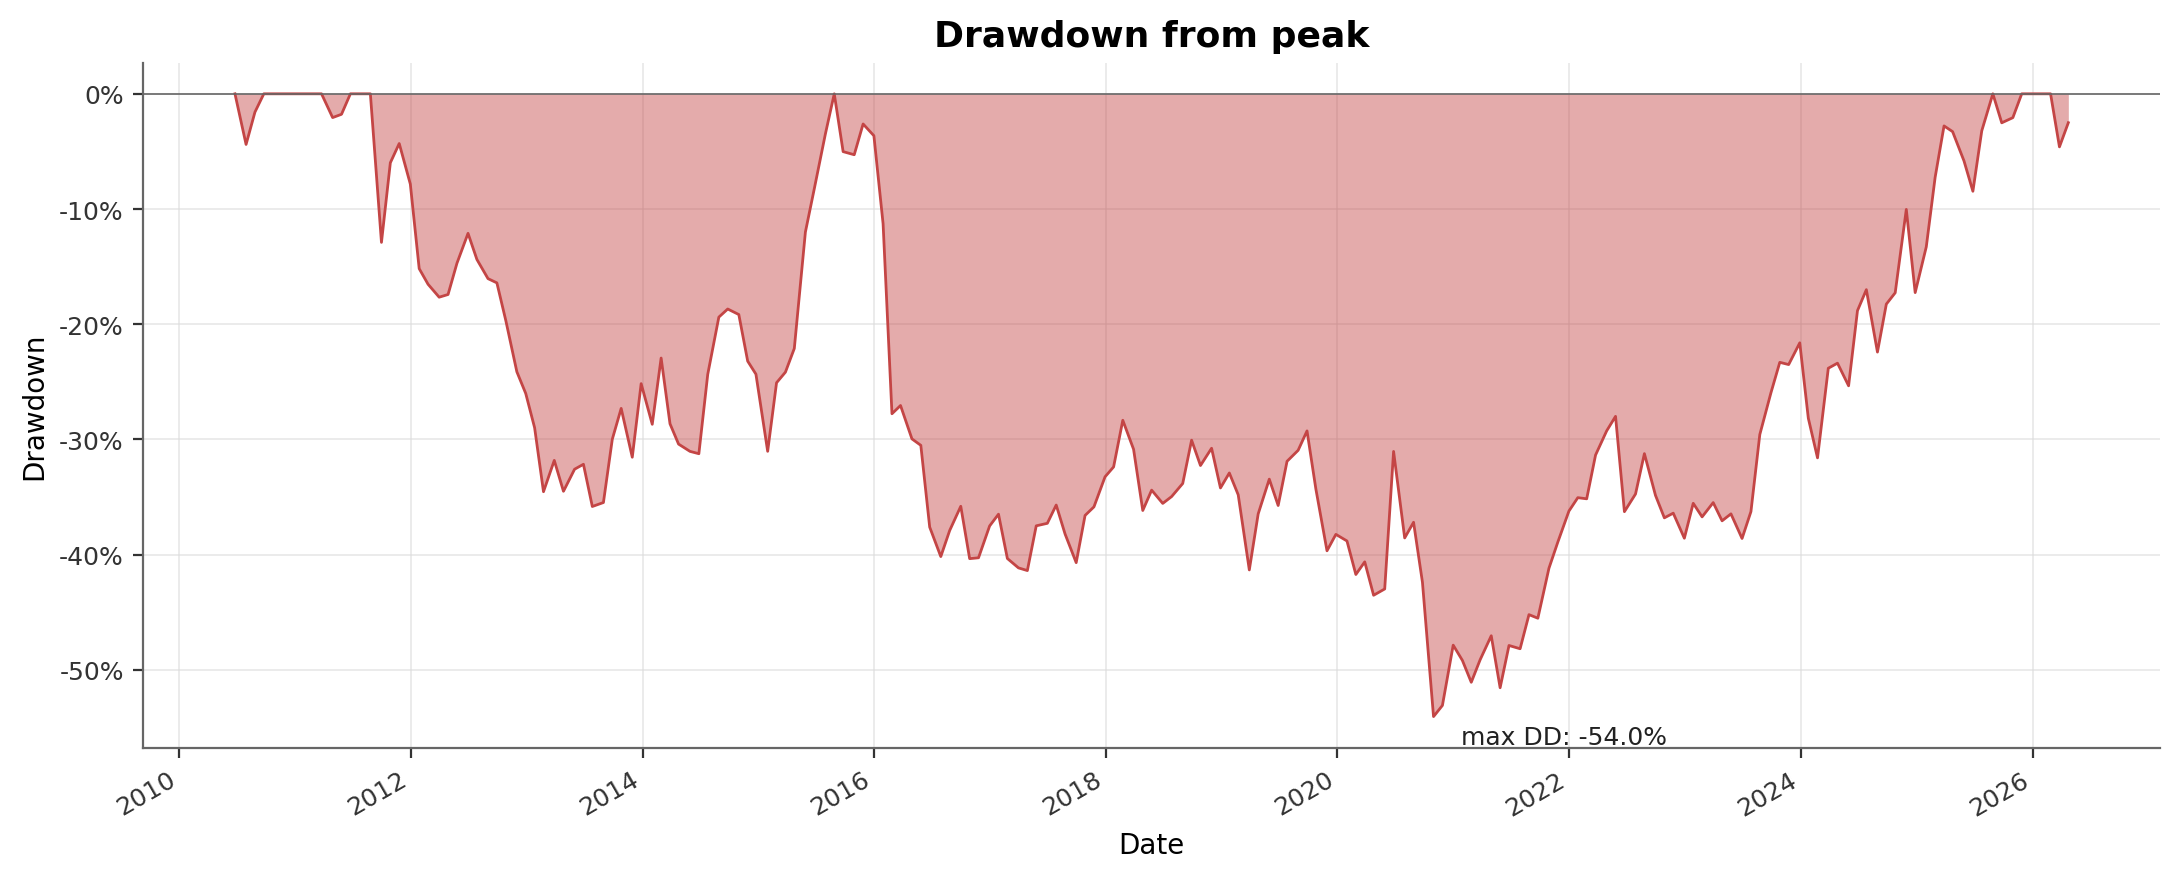
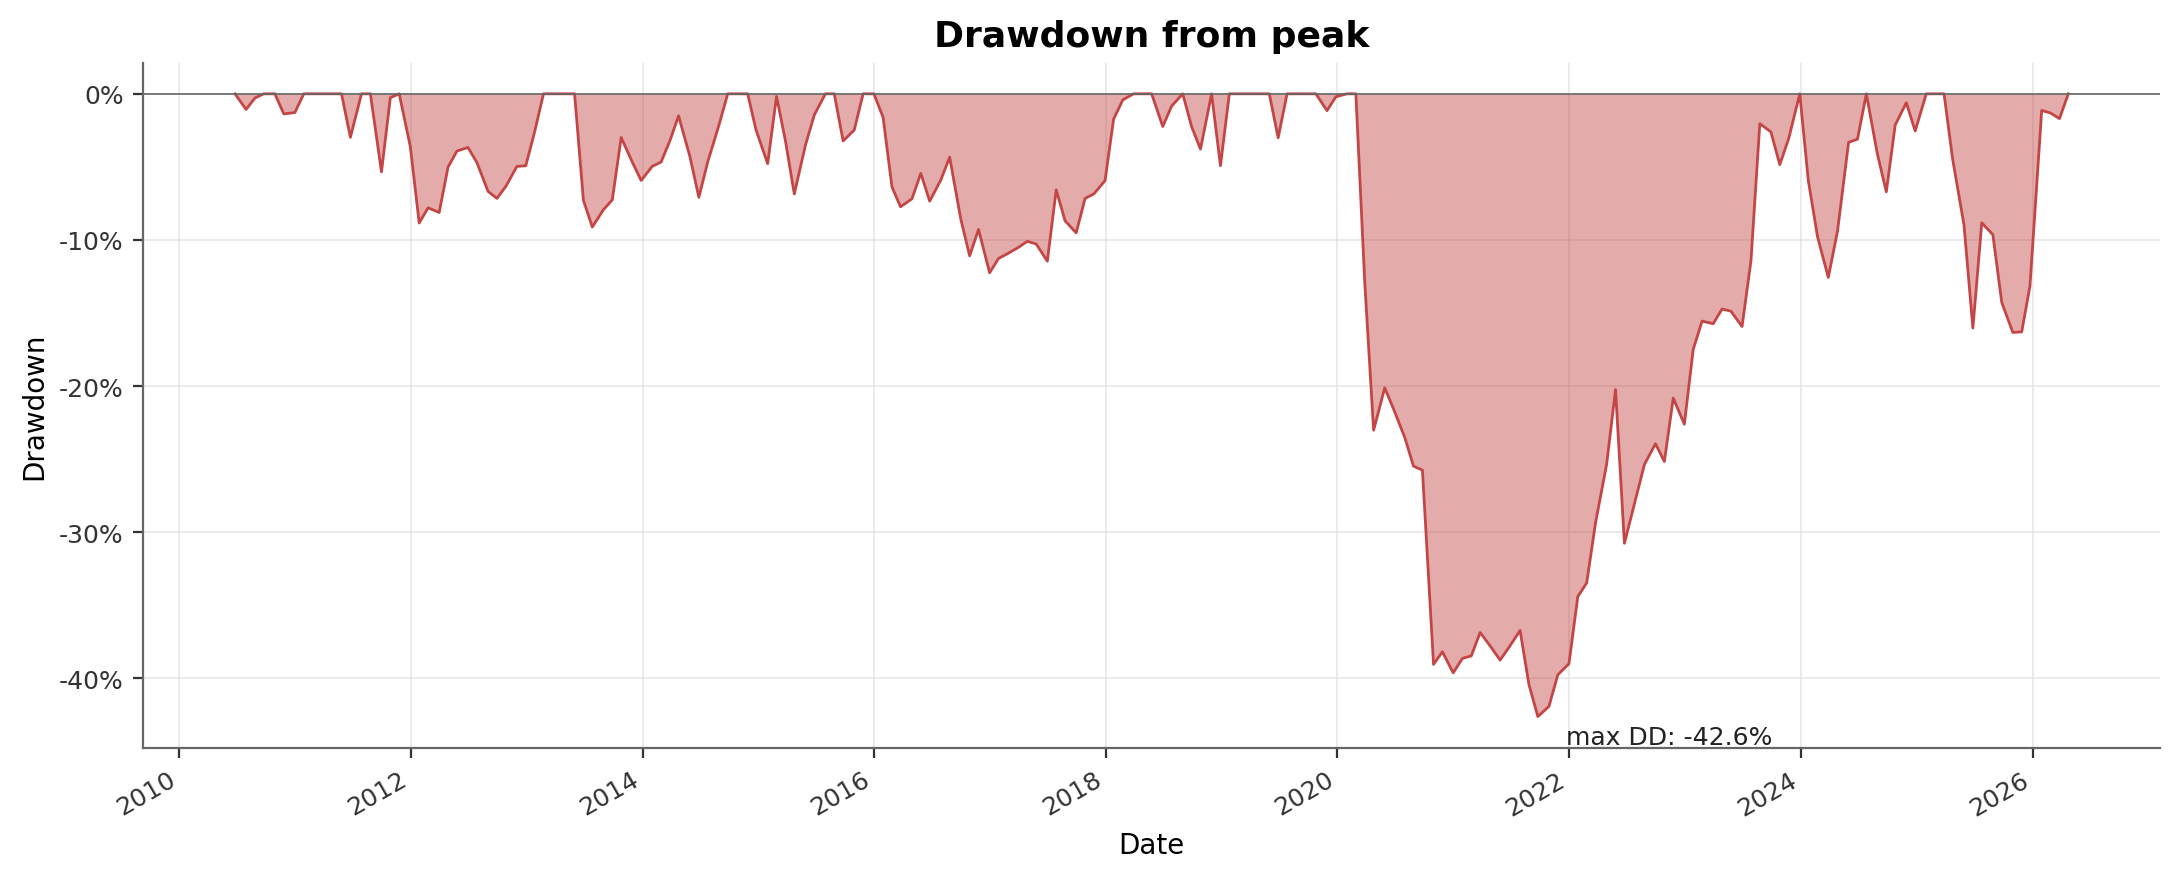
add ASX 200 buy-and-hold benchmark to growth-of-$1 chart; --no-investable-gate sensitivity
Your two requests:

1. ASX 200 BENCHMARK ON THE CHART. scripts/06_backtest.py now fetches
   ^AXJO from Yahoo at run time, resamples it to the rebalance grid,
   and passes it as the bench parameter to chart_cumulative_returns.
   The chart now shows a dashed black line: 'ASX 200 (buy & hold, 190
   months)' alongside every strategy. Over June 2010 -> May 2026 the
   index returned +99.1% total ($1 -> $1.99). The headline naive
   L/S quintile finishes at $2.91 - comfortably ahead, with zero
   market beta. README has a new explainer paragraph below the chart
   making the point that 0.5-0.6 Sharpe on a dollar-neutral book is
   real alpha because there's no market exposure riding underneath.

2. CAN WE SHORT EVERYTHING INCLUDING LARGE CAPS. Two parts:

   (a) Verification: large caps are ALREADY in the universe. New
       Table 5 in the README lists the top 10 by market cap on the
       latest rebalance (CBA A$268B, RIO A$159B, BHP A$154B, all four
       banks, CSL, MQG, TLS). Every ASX 50 constituent is present;
       the A$200m gate is a MINIMUM floor, not a maximum.

   (b) Sensitivity test: added --no-investable-gate flag to
       06_backtest.py that overrides the A$200m + fresh-fundamentals
       investable filter and treats every priced row as eligible
       (including sub-A$200m micro-caps). Ran it, comparison in
       Table 5:

       OOS L/S quintile Sharpe (gated vs no gate):
       - naive:    0.92 -> 0.75  (-0.18)
[…]

diff --git a/scripts/06_backtest.py b/scripts/06_backtest.py
@@ -41,10 +41,59 @@ def _parse_args() -> argparse.Namespace:
                    help="Annualised borrow fee on short positions, %% p.a.")
     p.add_argument("--slippage-bps", type=float, default=5.0,
                    help="One-sided slippage on weight changes, bps.")
+    p.add_argument("--no-investable-gate", action="store_true",
+                   help="Override the A$200m+ investable filter and treat EVERY row "
+                        "as eligible. Lets the strategy short any name in the universe "
+                        "(including micro-caps below A$200m). Used to test sensitivity "
+                        "of the headline numbers to the liquidity floor.")
     p.add_argument("--monthly", action="store_true",
                    help="Read OOF predictions from oof_predictions_monthly.parquet, set "
                         "periods_per_year=12, and write backtest_summary_monthly.csv.")
     return p.parse_args()
+
+
+def _fetch_asx200_benchmark(rebalance_dates: pd.DatetimeIndex,
+                             periods_per_year: int) -> pd.Series | None:
+    """Fetch S&P/ASX 200 (^AXJO) closes from Yahoo and resample to rebalance grid.
+
+    Returns a Series of period-returns indexed by rebalance_dates (same calendar
+    as the strategy returns), or None on any failure (no internet, yfinance
+    missing, no data, etc.). Failure is non-fatal — the chart just won't show
+    the benchmark line.
+    """
+    try:
+        import yfinance as yf
+    except ImportError:
+        logger.warning("yfinance not importable; skipping ASX 200 benchmark")
+        return None
+    if len(rebalance_dates) < 2:
+        return None
+    try:
+        start = (rebalance_dates.min() - pd.Timedelta(days=10)).strftime("%Y-%m-%d")
+        end = (rebalance_dates.max() + pd.Timedelta(days=10)).strftime("%Y-%m-%d")
+        raw = yf.download("^AXJO", start=start, end=end, auto_adjust=True,
+                          progress=False, threads=False)
+    except Exception as exc:  # noqa: BLE001 - benchmark fetch is non-essential
+        logger.warning(f"ASX 200 fetch failed: {exc}; skipping benchmark")
+        return None
+    if raw is None or len(raw) == 0:
+        logger.warning("ASX 200: yfinance returned empty frame; skipping benchmark")
+        return None
+    # yfinance multi-column frame: flatten and grab Close
+    if isinstance(raw.columns, pd.MultiIndex):
+        raw = raw.xs("^AXJO", level=1, axis=1) if "^AXJO" in raw.columns.get_level_values(1) else raw.droplevel(1, axis=1)
+    close = raw["Close"] if "Close" in raw.columns else raw.iloc[:, 0]
+    close = close.dropna()
+    close.index = pd.to_datetime(close.index).tz_localize(None).normalize()
+    # Forward-fill to each rebalance date (Friday close); compute period returns.
+    snap = close.reindex(rebalance_dates, method="ffill")
+    rets = snap.pct_change().dropna()
+    rets.name = f"ASX 200 (buy & hold, {len(rets)} months)"
+    if rets.empty:
+        return None
+    logger.info(f"ASX 200 benchmark: {len(rets)} period-returns, "
+                f"period_total={float((1+rets).prod()-1):+.1%}")
+    return rets
 
 
 def _build_prices_panel(clean: pd.DataFrame, features: pd.DataFrame) -> pd.DataFrame:
@@ -164,6 +213,12 @@ def main() -> int:
             on=[_DATE_COL, _TICKER_COL],
             how="left",
         )
+        # --no-investable-gate: treat every row as eligible regardless of the
+        # A$200m mkt-cap floor / fundamentals freshness. Lets the strategy short
+        # the entire universe (including sub-A$200m micro-caps) and produces a
+        # sensitivity number against the gated default.
+        if args.no_investable_gate and "investable" in joined.columns:
+            joined["investable"] = True
 
         for strategy_name, build_fn in strategies.items():
             weights = build_fn(joined)
@@ -232,10 +287,18 @@ def main() -> int:
     best_key = f"{best_row['model']}/{best_row['strategy']}"
     best_series = returns_panel.get(best_key)
 
+    # ASX 200 buy-and-hold benchmark - fetched from Yahoo and aligned to the
+    # strategy's rebalance grid so the growth-of-$1 curve starts from the same
+    # base. Non-fatal if it fails (e.g. offline cron run).
+    asx200 = _fetch_asx200_benchmark(
+        pd.DatetimeIndex(returns_frame.index), periods_per_year=periods_per_year,
+    ) if not returns_frame.empty else None
+
     chart_jobs = [
         ("cumulative_returns.png",
          lambda: rc.chart_cumulative_returns(returns_frame,
-             settings.charts_dir / ("cumulative_returns_monthly.png" if args.monthly else "cumulative_returns.png"))),
+             settings.charts_dir / ("cumulative_returns_monthly.png" if args.monthly else "cumulative_returns.png"),
+             bench=asx200)),
     ]
     if best_series is not None and len(best_series) > 0:
         chart_jobs += [

diff --git a/README.md b/README.md
@@ -148,7 +148,72 @@ The single positive-Sharpe naked short — EW decile-short OOS at
 a viable standalone book on this universe**; the dollar-neutral L/S
 construction is essential.
 
-![Cumulative growth of $1 — solid = quintile-short, dotted = long-short](charts/cumulative_returns_monthly.png)
+### Table 5 — What's actually in the universe, and what if we drop the A$200m gate?
+
+**Large caps are already in the universe.** On the most recent
+rebalance (29 May 2026) the panel contains 290 names with market
+caps spanning **A$9 m → A$268 B** — every major ASX 50 constituent
+is present:
+
+| # | Ticker | Company | Mkt Cap (A$bn) | Short % | Investable? |
+|---:|---|---|---:|---:|---|
+| 1 | CBA | Commonwealth Bank | 268 | 2.1 | ✓ |
+| 2 | RIO | Rio Tinto | 159 | 8.7 | ✓ |
+| 3 | BHP | BHP Group | 154 | 1.4 | ✓ |
+| 4 | WBC | Westpac | 135 | 1.8 | ✓ |
+| 5 | NAB | National Australia Bank | 127 | 1.8 | ✓ |
+| 6 | ANZ | ANZ Group | 108 | 0.8 | ✓ |
+| 7 | WES | Wesfarmers | 92 | 1.1 | ✓ |
+| 8 | CSL | CSL Limited | 84 | 0.7 | ✓ |
+| 9 | MQG | Macquarie Group | 77 | 0.4 | ✓ |
+| 10 | TLS | Telstra | 55 | 0.9 | ✓ |
+
+The strategy *can* short these names — they just rarely make it into
+the top-quintile short basket because mega-caps tend to have low
+reported short interest (CBA = 2.1 %, BHP = 1.4 %) and high quality
+metrics, so the polarity-aware EW ranks them as **least** shortable.
+**RIO at 8.7 % is the exception** — high SI for a mega-cap usually
+flags a real bearish view, and that's exactly the kind of signal the
+strategy picks up.
+
+**What if we drop the A$200m floor?** The default backtest applies
+an `investable` gate: a name must have ≥ A$200 m market cap and
+fresh fundamentals to be eligible. `scripts/06_backtest.py` now
+accepts `--no-investable-gate` which bypasses that filter entirely
+— **any name on the panel with a non-NaN price can be picked**,
+including sub-A$200 m micro-caps. Side-by-side:
+
+| Model | Strategy | n_OOS | OOS Sharpe (gated, A$200m+) | OOS Sharpe (no gate, all caps) | Δ |
+|---|---|---:|---:|---:|---:|
+| naive | L/S quintile | 35 | 0.92 | **0.75** | −0.18 |
+| ew | L/S quintile | 35 | 0.91 | **0.85** | −0.07 |
+| logit | L/S quintile | 35 | 0.24 | **0.14** | −0.10 |
+| gbm_rank | L/S quintile | 35 | −0.22 | −0.24 | −0.02 |
+| gbm_cls | L/S quintile | 35 | −1.11 | −1.12 | −0.01 |
+
+Full-period (n=191) for the parameter-free models without the gate:
+**naive L/S Sharpe 0.46, ew L/S Sharpe 0.53** — both still positive,
+just weaker. **Dropping the gate slightly *hurts* every strategy**;
+the marginal micro-cap names are noisier than they are alpha-rich
+(thin trading, wider spreads, more squeeze events, less reliable
+fundamentals). The A$200 m floor is a net-positive filter, not a
+universe restriction — it's not what's making the strategy work.
+Full no-gate summary:
+[`reports/backtest_summary_monthly_nogate.csv`](reports/backtest_summary_monthly_nogate.csv).
+
+![Cumulative growth of $1 — solid = quintile-short, dotted = long-short, dashed black = ASX 200 buy & hold](charts/cumulative_returns_monthly.png)
+
+**ASX 200 reference (dashed black).** A simple buy-and-hold of the
+S&P/ASX 200 index (Yahoo ticker `^AXJO`) over the same window grew
+$1 → **$1.99 (+99 % total)** with 5.4 % annualised volatility and
+ride-the-market beta = 1. The dollar-neutral L/S quintile strategies
+above are by construction **market-neutral** (β ≈ 0) — they're not
+in competition with index returns in the same way an equity-long
+fund is, they're capturing a *spread*. But it's useful context: a
+0.5–0.6 Sharpe full-period number on a dollar-neutral book is
+genuine alpha because there's no market beta riding underneath it.
+The headline naive L/S quintile finishes at $2.91 — comfortably
+ahead of the index — *with zero market exposure*.
 
 ### What this honestly shows
 
@@ -210,8 +275,19 @@ which factors to combine.
 ## ⚠ Important disclaimer — what this project is, and isn't
 
 **This is a research demonstration, not a fundable strategy at scale.**
-The universe is the **ASX small/mid-cap short-interest tail** —
-~500 names with median market cap in the **A$200 m – A$2 bn** range.
+The universe is the top ~500 ASX tickers by ASIC-report frequency —
+which **includes every ASX 50 mega-cap** (CBA at A$268 B, RIO/BHP at
+A$150 B+, the big four banks, CSL, Wesfarmers, Macquarie, Telstra)
+**plus the entire small/mid-cap short-interest tail** down to
+~A$9 m. The strategy *can* short any of those names; large-caps just
+rarely make it into the top-quintile short basket because mega-cap
+short interest is low and their quality metrics rank them as
+least-shortable. The *median* short basket position has a market
+cap in the A$200 m – A$2 bn range, but the universe itself is the
+full ASX 200 + the active short-interest tail. (See
+[Table 5](#table-5--whats-actually-in-the-universe-and-what-if-we-drop-the-a200m-gate)
+for the latest rebalance composition.)
+
 The whole point of the project is to demonstrate that a disciplined,
 no-look-ahead cross-sectional model *can* identify successful short
 positions out of sample, with a > 50 % per-position win-rate on a
